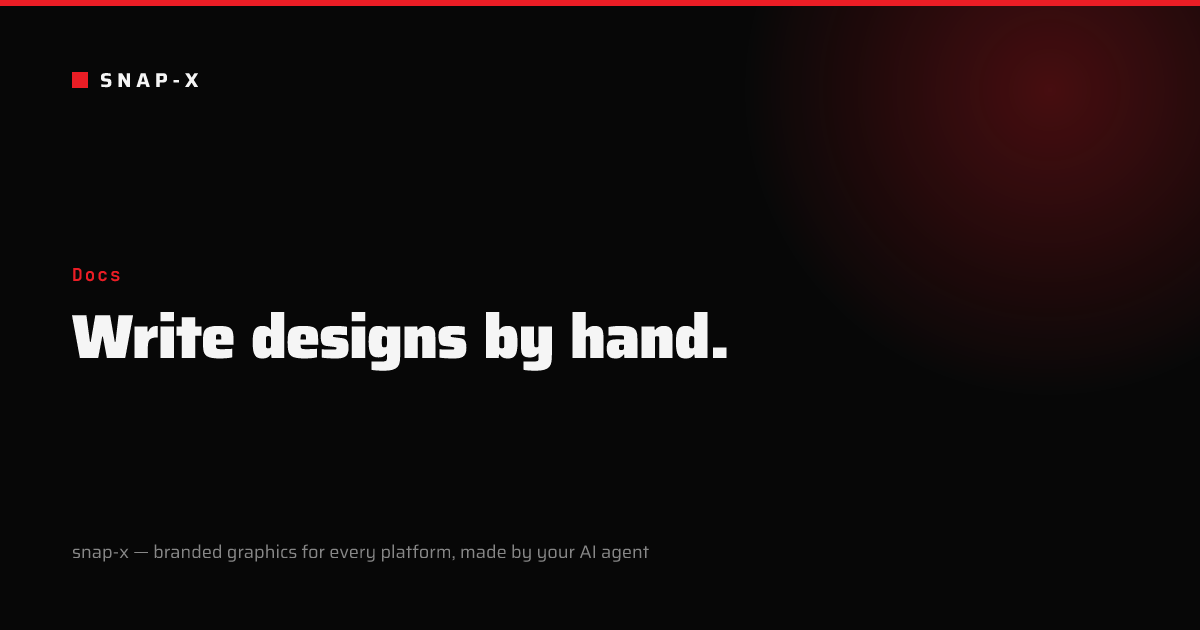
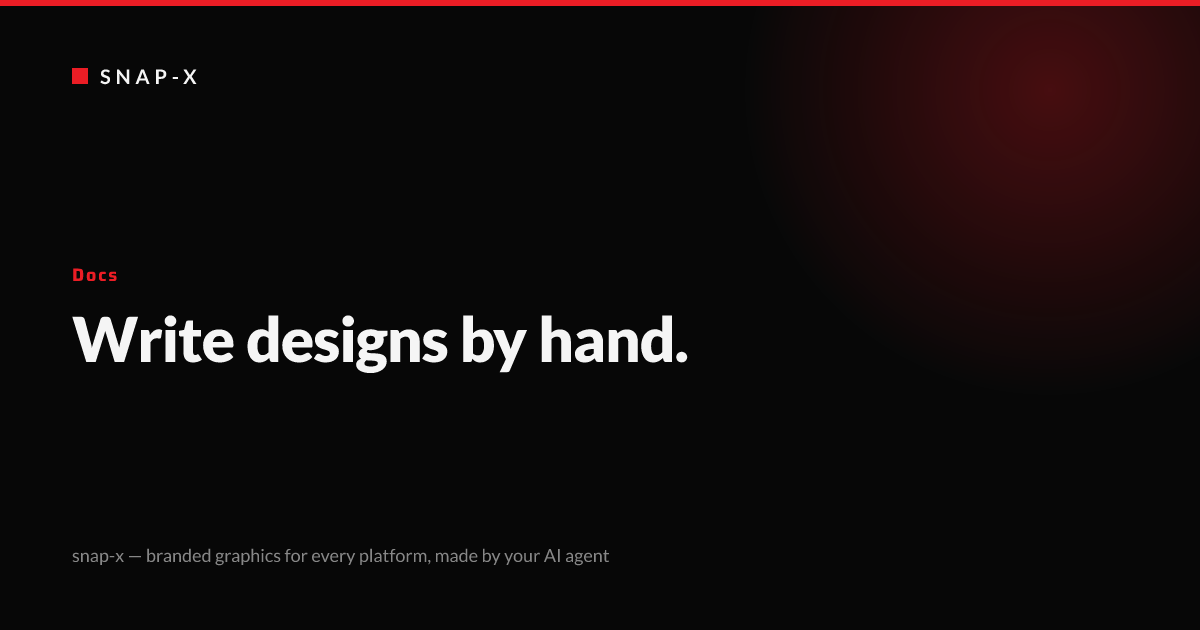
Set Lato and Saira as website fonts

diff --git a/apps/web/app/layout.tsx b/apps/web/app/layout.tsx
@@ -1,18 +1,18 @@
 import type { Metadata } from "next";
-import { Saira, Space_Mono } from "next/font/google";
+import { Lato, Saira } from "next/font/google";
 import Link from "next/link";
 import "./globals.css";
 import { SITE_URL } from "@/lib/site";
 import { SiteNav } from "@/components/SiteNav";
 
-const saira = Saira({
-  variable: "--font-saira",
+const lato = Lato({
+  variable: "--font-lato",
   subsets: ["latin"],
   weight: ["400", "500", "700", "900"],
 });
 
-const spaceMono = Space_Mono({
-  variable: "--font-space-mono",
+const saira = Saira({
+  variable: "--font-saira",
   subsets: ["latin"],
   weight: ["400", "700"],
 });
@@ -41,7 +41,7 @@ export const metadata: Metadata = {
 
 export default function RootLayout({ children }: { children: React.ReactNode }) {
   return (
-    <html lang="en" className={`${saira.variable} ${spaceMono.variable} h-full`}>
+    <html lang="en" className={`${lato.variable} ${saira.variable} h-full`}>
       <body className="min-h-full flex flex-col antialiased bg-bg text-ink">
         <SiteNav />
 

diff --git a/apps/web/app/globals.css b/apps/web/app/globals.css
@@ -15,8 +15,8 @@
   --color-border: rgba(255, 255, 255, 0.08);
   --color-border-2: rgba(255, 255, 255, 0.14);
 
-  --font-display: var(--font-saira);
-  --font-mono: var(--font-space-mono);
+  --font-display: var(--font-lato);
+  --font-mono: var(--font-saira);
 }
 
 body {
